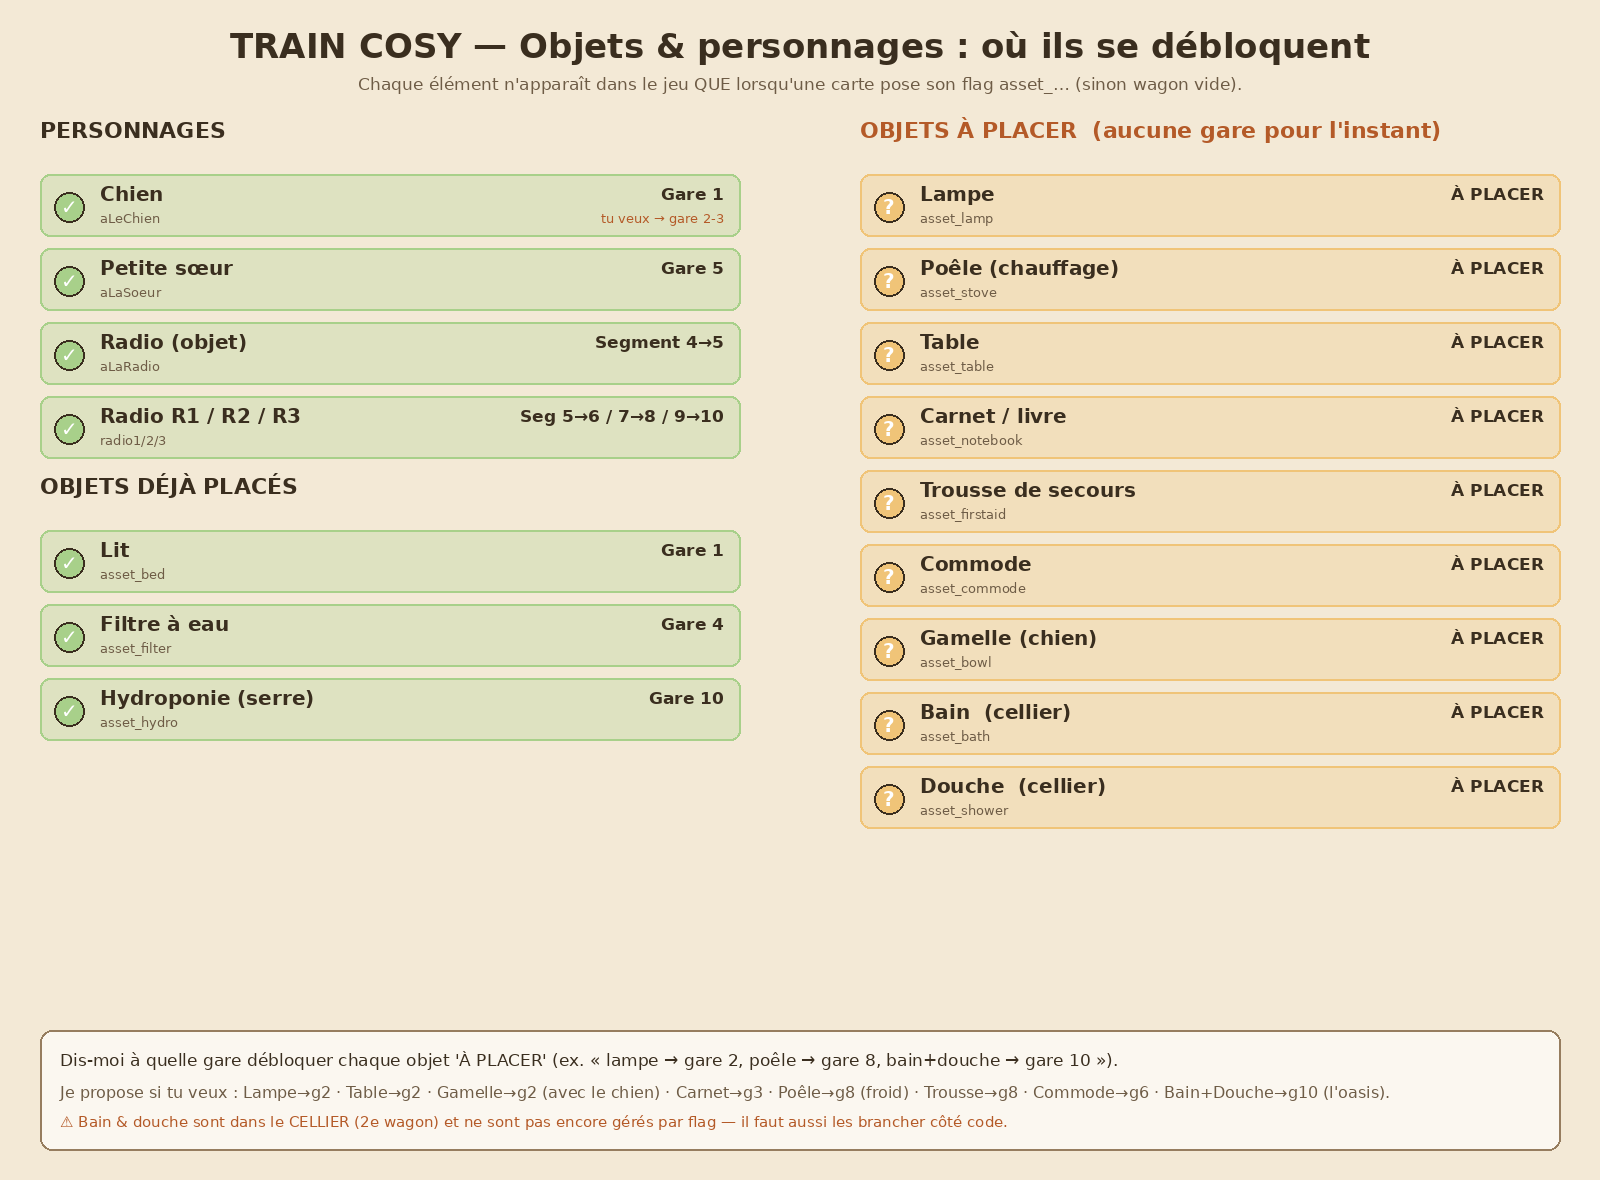
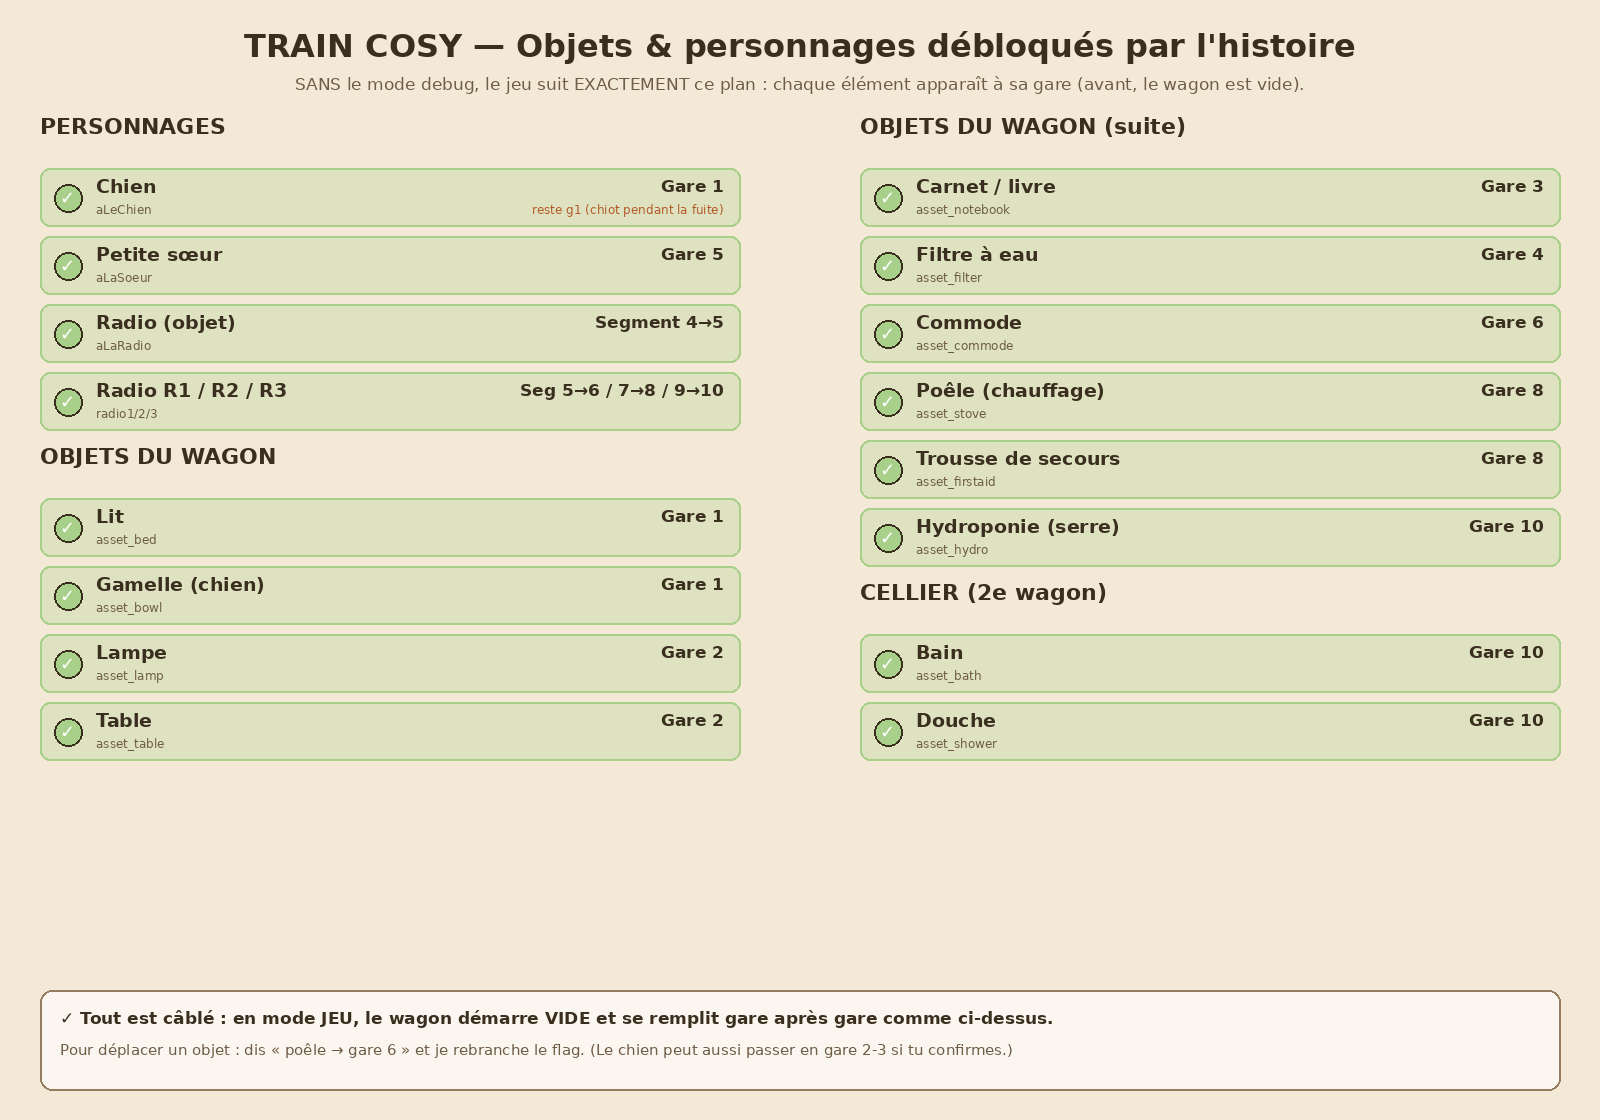
Placement de TOUS les objets dans l'histoire (jeu sans debug = suit le plan)
- asset_lamp/table (g2), notebook (g3), commode (g6), stove/firstaid (g8),
  bowl (g1 avec chien), bath/shower (g10 cellier)
- cellier: bain/douche gates sur asset_bath/asset_shower (visibles en debug)
- visuels regeneres (board + fiche objets)

Changed region(s): [[0.1562, 0.0312, 1.0, 0.7188], [0.0312, 0.0938, 0.4688, 0.6875], [0.0312, 0.875, 0.9688, 1.0]]

diff --git a/lib/widgets/side_scroll_scene.dart b/lib/widgets/side_scroll_scene.dart
@@ -1808,27 +1808,31 @@ class _SideScrollSceneState extends State<SideScrollScene>
         children: [
           // Shen sous la douche (derrière pommeau + panneau).
           if (_showering) _buildShowerHeroine(w, h),
-          _w2Drag(
-            w: w, h: h, cx: gs.showerHeadX, topY: gs.showerHeadY,
-            heightFrac: gs.showerHeadH, aspect: 229 / 672, label: 'pommeau',
-            child: pommeau,
-            onMove: (dx, dy) {
-              gs.showerHeadX = (gs.showerHeadX + dx).clamp(0.02, 0.98);
-              gs.showerHeadY = (gs.showerHeadY + dy).clamp(0.0, 0.85);
-            },
-            onResize: (nh) => gs.showerHeadH = nh,
-          ),
-          _w2Drag(
-            w: w, h: h, cx: gs.showerPanelX, topY: gs.showerPanelY,
-            heightFrac: gs.showerPanelH, aspect: 720 / 768, label: 'panneau',
-            child: Image.asset('assets/objects/shower_panel.png',
-                fit: BoxFit.contain, gaplessPlayback: true),
-            onMove: (dx, dy) {
-              gs.showerPanelX = (gs.showerPanelX + dx).clamp(0.02, 0.98);
-              gs.showerPanelY = (gs.showerPanelY + dy).clamp(0.0, 0.85);
-            },
-            onResize: (nh) => gs.showerPanelH = nh,
-          ),
+          // Douche (pommeau + panneau) : débloquée par l'histoire (asset_shower)
+          // ou en mode debug (_showAllProps).
+          if (_propUnlocked('shower'))
+            _w2Drag(
+              w: w, h: h, cx: gs.showerHeadX, topY: gs.showerHeadY,
+              heightFrac: gs.showerHeadH, aspect: 229 / 672, label: 'pommeau',
+              child: pommeau,
+              onMove: (dx, dy) {
+                gs.showerHeadX = (gs.showerHeadX + dx).clamp(0.02, 0.98);
+                gs.showerHeadY = (gs.showerHeadY + dy).clamp(0.0, 0.85);
+              },
+              onResize: (nh) => gs.showerHeadH = nh,
+            ),
+          if (_propUnlocked('shower'))
+            _w2Drag(
+              w: w, h: h, cx: gs.showerPanelX, topY: gs.showerPanelY,
+              heightFrac: gs.showerPanelH, aspect: 720 / 768, label: 'panneau',
+              child: Image.asset('assets/objects/shower_panel.png',
+                  fit: BoxFit.contain, gaplessPlayback: true),
+              onMove: (dx, dy) {
+                gs.showerPanelX = (gs.showerPanelX + dx).clamp(0.02, 0.98);
+                gs.showerPanelY = (gs.showerPanelY + dy).clamp(0.0, 0.85);
+              },
+              onResize: (nh) => gs.showerPanelH = nh,
+            ),
           // Vapeur de douche : devant le panneau, autour d'elle (ambiance +
           // léger voile). Seulement pendant la douche.
           if (_showering)
@@ -1838,7 +1842,8 @@ class _SideScrollSceneState extends State<SideScrollScene>
                 boxWFrac: 0.34,
                 boxHFrac: 0.58,
                 intensity: 1.3),
-          if (!_bathing)
+          // Baignoire : débloquée par l'histoire (asset_bath) ou en debug.
+          if (_propUnlocked('bath') && !_bathing)
             _w2Drag(
               w: w, h: h, cx: gs.bathX, topY: gs.bathY,
               heightFrac: gs.bathH, aspect: 1376 / 768, label: 'baignoire',

diff --git a/lib/data/cards_data.dart b/lib/data/cards_data.dart
@@ -108,8 +108,8 @@ List<StoryCard> _gare1(Set<String> f) => [
         text:
             "Le train n'a pas encore pris sa vitesse. Sous un banc renversé du wagon, deux yeux brillent : un chiot tremblant, oublié là, seul comme toi.",
         left: _c("Le recueillir",
-            fx: {Stat.moral: 15}, flags: ['aLeChien'],
-            result: "Il se glisse contre ta jambe et s'endort aussitôt. Le wagon paraît moins vide. Tu n'es plus tout à fait seule."),
+            fx: {Stat.moral: 15}, flags: ['aLeChien', 'asset_bowl'],
+            result: "Il se glisse contre ta jambe et s'endort aussitôt. Le wagon paraît moins vide. Tu n'es plus tout à fait seule. Tu lui bricoles une gamelle."),
         right: _c("Tu ne pourras pas le nourrir",
             fx: {Stat.moral: -5},
             result: "Tu détournes les yeux. Une bouche de plus, c'est non. Le silence, après, est immense."),
@@ -138,10 +138,12 @@ List<StoryCard> _gare2(Set<String> f) => [
             "Au dépôt de fret, le foyer de la loco agonise. Tu ne sais pas la nourrir — trop de bois l'étouffe, trop peu l'éteint. Un manuel graisseux traîne dans la cabine.",
         left: _c("Déchiffrer le manuel, page à page",
             fx: {Stat.bois: 18, Stat.faim: -4},
-            result: "Des heures penchée sur les schémas, l'estomac vide. Mais le feu reprend, franc et vif. Tu sauras faire, maintenant."),
+            flags: ['asset_lamp', 'asset_table'],
+            result: "Des heures penchée sur les schémas, l'estomac vide. Mais le feu reprend, franc et vif. Tu sauras faire, maintenant. Tu récupères au dépôt une lampe et une petite table."),
         right: _c("Y aller à l'instinct",
             fx: {Stat.bois: 6, Stat.moral: -3},
-            result: "Tu charges au jugé. Le feu crachote, capricieux. Tu apprendras dans la fumée et les jurons."),
+            flags: ['asset_lamp', 'asset_table'],
+            result: "Tu charges au jugé. Le feu crachote, capricieux. Tu apprendras dans la fumée et les jurons. Tu emportes quand même une lampe et une table trouvées au dépôt."),
       ),
       ..._combat(f, 'G2', 'Dépôt de fret',
           winText:
@@ -171,10 +173,12 @@ List<StoryCard> _gare3(Set<String> f) => [
             "Halte 47, noyée dans un brouillard épais. Des formes bougent entre les wagons rouillés — des pillards, qui fouillent les morts. Ils n'ont pas encore vu ta loco.",
         left: _c("Couper les feux, passer en fantôme",
             fx: {Stat.bois: -6, Stat.moral: -4},
-            result: "Tu éteins tout et tu pousses doucement dans la brume, le cœur au bord des lèvres. Ils ne te verront pas — mais rouler si lentement fait fondre le bois."),
+            flags: ['asset_notebook'],
+            result: "Tu éteins tout et tu pousses doucement dans la brume, le cœur au bord des lèvres. Ils ne te verront pas — mais rouler si lentement fait fondre le bois. Dans le silence, tu trouves un carnet abandonné et un crayon."),
         right: _c("Accélérer pour les semer",
             fx: {Stat.bois: -10, Stat.moral: 3},
-            result: "Tu ouvres les gaz. Un cri, des pas qui courent, une pierre contre la tôle — puis le brouillard les avale. Passé."),
+            flags: ['asset_notebook'],
+            result: "Tu ouvres les gaz. Un cri, des pas qui courent, une pierre contre la tôle — puis le brouillard les avale. Passé. Sur la banquette, un carnet oublié par un ancien passager."),
       ),
       StoryCard(
         id: 'G3b',
@@ -287,9 +291,11 @@ List<StoryCard> _gare6(Set<String> f) => [
         text:
             "Un camp de survivants. On peut troquer, mais ils regardent ta sœur avec trop d'intérêt — ici, un enfant en bonne santé, ça se monnaie.",
         left: _c("Troquer vite et partir",
-            fx: {Stat.faim: 12, Stat.soif: 8, Stat.moral: -6}, result: "Tu obtiens des vivres mais tu sens leurs regards. Tu repars avant la nuit, elle serrée contre toi."),
+            fx: {Stat.faim: 12, Stat.soif: 8, Stat.moral: -6}, flags: ['asset_commode'],
+            result: "Tu obtiens des vivres mais tu sens leurs regards. Tu repars avant la nuit, elle serrée contre toi — avec une vieille commode troquée pour ranger vos affaires."),
         right: _c("Ne pas t'attarder une seconde",
-            fx: {Stat.moral: 6, Stat.faim: -5}, result: "Tu refuses tout contact. Le ventre vide, mais ta sœur en sécurité. C'est tout ce qui compte."),
+            fx: {Stat.moral: 6, Stat.faim: -5}, flags: ['asset_commode'],
+            result: "Tu refuses tout contact. Le ventre vide, mais ta sœur en sécurité. Tu emportes juste une commode laissée sur le quai."),
       ),
       ..._combat(f, 'G6', 'Camp-refuge',
           winText:
@@ -349,9 +355,9 @@ List<StoryCard> _gare8(Set<String> f) => [
         text:
             "Le froid mord pour de bon. Ta sœur grelotte, ses lèvres bleuissent. Elle n'a pas de vrai manteau.",
         left: _c("Lui donner le tien",
-            fx: {Stat.moral: 14, Stat.soif: -6}, flags: ['soeurProtegee'], result: "Tu grelottes à sa place. Elle s'endort contre toi, au chaud. Tu ne regrettes rien."),
+            fx: {Stat.moral: 14, Stat.soif: -6}, flags: ['soeurProtegee', 'asset_stove', 'asset_firstaid'], result: "Tu grelottes à sa place. Elle s'endort contre toi, au chaud. Tu ne regrettes rien. À l'entrée de la zone froide, tu as installé un vrai poêle et trouvé une trousse de secours."),
         right: _c("Pousser le feu à fond",
-            fx: {Stat.bois: -16, Stat.moral: 6}, result: "Tu sacrifies ta réserve de bois pour la réchauffer. Le wagon est un four, pour l'instant."),
+            fx: {Stat.bois: -16, Stat.moral: 6}, flags: ['asset_stove', 'asset_firstaid'], result: "Tu sacrifies ta réserve de bois pour la réchauffer. Le wagon est un four, pour l'instant. Tu finis par installer un vrai poêle et dénicher une trousse de secours."),
       ),
       ..._combat(f, 'G8', 'Entrée zone froide',
           winText:
@@ -412,12 +418,12 @@ List<StoryCard> _gare10(Set<String> f) => [
             "Une serre intacte, chaude, verdoyante. Ta sœur court entre les plants en riant. Un répit irréel. On pourrait... rester ici ?",
         left: _c("S'accorder un vrai repos",
             fx: {Stat.faim: 20, Stat.soif: 16, Stat.moral: 18},
-            flags: ['asset_hydro'],
-            result: "Quelques jours de chaleur et de rires. Vous reprenez des forces et de l'âme. Avant de partir, vous démontez de quoi monter une petite tour hydroponique dans le wagon. Puis le nord rappelle."),
+            flags: ['asset_hydro', 'asset_bath', 'asset_shower'],
+            result: "Quelques jours de chaleur et de rires. Vous reprenez des forces et de l'âme. Avant de partir, vous démontez de quoi monter une tour hydroponique, une baignoire et un coin douche dans le cellier. Puis le nord rappelle."),
         right: _c("Faire le plein et repartir vite",
             fx: {Stat.faim: 12, Stat.soif: 10, Stat.bois: 12, Stat.moral: -4},
-            flags: ['asset_hydro'],
-            result: "« Papa et maman attendent. » Elle comprend. Vous emportez des plants et le matériel hydroponique, et repartez le ventre plein, le cœur lourd."),
+            flags: ['asset_hydro', 'asset_bath', 'asset_shower'],
+            result: "« Papa et maman attendent. » Elle comprend. Vous emportez des plants, le matériel hydroponique et de quoi installer un bain et une douche dans le cellier, et repartez le ventre plein, le cœur lourd."),
       ),
       ..._combat(f, 'G10', 'Oasis perdue',
           winText:

diff --git a/lib/widgets/loading_screen.dart b/lib/widgets/loading_screen.dart
@@ -202,7 +202,7 @@ class _LoadingScreenState extends State<LoadingScreen> {
             const SizedBox(height: 8),
             // Numéro de build (pour vérifier qu'on teste la bonne version).
             const Text(
-              'build 0.97.0',
+              'build 0.98.0',
               style: TextStyle(color: Color(0xFF6B5E4E), fontSize: 11),
             ),
           ],

diff --git a/tools/story_viz/objets.py b/tools/story_viz/objets.py
@@ -4,61 +4,52 @@ from PIL import Image, ImageDraw, ImageFont
 FP="/usr/share/fonts/truetype/dejavu/DejaVuSans.ttf"
 FPB="/usr/share/fonts/truetype/dejavu/DejaVuSans-Bold.ttf"
 def Fn(s,b=False): return ImageFont.truetype(FPB if b else FP,s)
-W,H=1600,1180
+W,H=1600,1120
 img=Image.new("RGB",(W,H),(243,233,214)); d=ImageDraw.Draw(img,"RGBA")
 INK=(58,46,31); INK2=(110,92,70)
 def ct(x,y,s,f,fill,a="lm"): d.text((x,y),s,font=f,fill=fill,anchor=a)
 
-ct(W//2,46,"TRAIN COSY — Objets & personnages : où ils se débloquent",Fn(34,True),INK,"mm")
-ct(W//2,84,"Chaque élément n'apparaît dans le jeu QUE lorsqu'une carte pose son flag asset_… (sinon wagon vide).",Fn(17),INK2,"mm")
+ct(W//2,46,"TRAIN COSY — Objets & personnages débloqués par l'histoire",Fn(32,True),INK,"mm")
+ct(W//2,84,"SANS le mode debug, le jeu suit EXACTEMENT ce plan : chaque élément apparaît à sa gare (avant, le wagon est vide).",Fn(17),INK2,"mm")
 
-def row(x,y,name,where,key,placed,note=""):
-    col=(168,208,138) if placed else (240,196,120)
-    d.rounded_rectangle([x,y,x+700,y+62],radius=10,fill=col+(70,),outline=col,width=2)
-    # pastille statut
-    d.ellipse([x+14,y+18,x+44,y+48],fill=col,outline=INK,width=2)
-    ct(x+29,y+33,"✓" if placed else "?",Fn(20,True),(255,255,255),"mm")
-    ct(x+60,y+20,name,Fn(20,True),INK,"lm")
-    ct(x+60,y+44,key,Fn(13),INK2,"lm")
-    ct(x+700-16,y+20,where,Fn(17,True),INK,"rm")
-    if note: ct(x+700-16,y+44,note,Fn(13),(180,90,40),"rm")
+def row(x,y,name,where,key,note=""):
+    col=(168,208,138)
+    d.rounded_rectangle([x,y,x+700,y+58],radius=10,fill=col+(70,),outline=col,width=2)
+    d.ellipse([x+14,y+16,x+42,y+44],fill=col,outline=INK,width=2)
+    ct(x+28,y+30,"✓",Fn(18,True),(255,255,255),"mm")
+    ct(x+56,y+18,name,Fn(19,True),INK,"lm")
+    ct(x+56,y+41,key,Fn(12),INK2,"lm")
+    ct(x+700-16,y+18,where,Fn(17,True),INK,"rm")
+    if note: ct(x+700-16,y+41,note,Fn(12),(180,90,40),"rm")
 
-# ---- Colonne gauche : PERSOS + PLACÉS ----
-LX=40; y=130
-ct(LX,y,"PERSONNAGES",Fn(22,True),INK,"lm"); y+=44
-row(LX,y,"Chien","Gare 1","aLeChien",True,"tu veux → gare 2-3"); y+=74
-row(LX,y,"Petite sœur","Gare 5","aLaSoeur",True); y+=74
-row(LX,y,"Radio (objet)","Segment 4→5","aLaRadio",True); y+=74
-row(LX,y,"Radio R1 / R2 / R3","Seg 5→6 / 7→8 / 9→10","radio1/2/3",True); y+=90
+LX=40; y=126
+ct(LX,y,"PERSONNAGES",Fn(22,True),INK,"lm"); y+=42
+row(LX,y,"Chien","Gare 1","aLeChien","reste g1 (chiot pendant la fuite)"); y+=68
+row(LX,y,"Petite sœur","Gare 5","aLaSoeur"); y+=68
+row(LX,y,"Radio (objet)","Segment 4→5","aLaRadio"); y+=68
+row(LX,y,"Radio R1 / R2 / R3","Seg 5→6 / 7→8 / 9→10","radio1/2/3"); y+=84
+ct(LX,y,"OBJETS DU WAGON",Fn(22,True),INK,"lm"); y+=42
+row(LX,y,"Lit","Gare 1","asset_bed"); y+=68
+row(LX,y,"Gamelle (chien)","Gare 1","asset_bowl"); y+=68
+row(LX,y,"Lampe","Gare 2","asset_lamp"); y+=68
+row(LX,y,"Table","Gare 2","asset_table"); y+=68
 
-ct(LX,y,"OBJETS DÉJÀ PLACÉS",Fn(22,True),INK,"lm"); y+=44
-row(LX,y,"Lit","Gare 1","asset_bed",True); y+=74
-row(LX,y,"Filtre à eau","Gare 4","asset_filter",True); y+=74
-row(LX,y,"Hydroponie (serre)","Gare 10","asset_hydro",True); y+=74
+RX=860; y=126
+ct(RX,y,"OBJETS DU WAGON (suite)",Fn(22,True),INK,"lm"); y+=42
+row(RX,y,"Carnet / livre","Gare 3","asset_notebook"); y+=68
+row(RX,y,"Filtre à eau","Gare 4","asset_filter"); y+=68
+row(RX,y,"Commode","Gare 6","asset_commode"); y+=68
+row(RX,y,"Poêle (chauffage)","Gare 8","asset_stove"); y+=68
+row(RX,y,"Trousse de secours","Gare 8","asset_firstaid"); y+=68
+row(RX,y,"Hydroponie (serre)","Gare 10","asset_hydro"); y+=84
+ct(RX,y,"CELLIER (2e wagon)",Fn(22,True),INK,"lm"); y+=42
+row(RX,y,"Bain","Gare 10","asset_bath"); y+=68
+row(RX,y,"Douche","Gare 10","asset_shower"); y+=68
 
-# ---- Colonne droite : À PLACER ----
-RX=860; y=130
-ct(RX,y,"OBJETS À PLACER  (aucune gare pour l'instant)",Fn(22,True),(180,90,40),"lm"); y+=44
-toplace=[
- ("Lampe","asset_lamp"),
- ("Poêle (chauffage)","asset_stove"),
- ("Table","asset_table"),
- ("Carnet / livre","asset_notebook"),
- ("Trousse de secours","asset_firstaid"),
- ("Commode","asset_commode"),
- ("Gamelle (chien)","asset_bowl"),
- ("Bain  (cellier)","asset_bath"),
- ("Douche  (cellier)","asset_shower"),
-]
-for name,key in toplace:
-    row(RX,y,name,"À PLACER",key,False); y+=74
-
-# ---- bas : note ----
-ny=H-150
+ny=H-130
 d.rounded_rectangle([40,ny,W-40,H-30],radius=12,fill=(255,255,255,160),outline=(150,125,95),width=2)
-ct(60,ny+30,"Dis-moi à quelle gare débloquer chaque objet 'À PLACER' (ex. « lampe → gare 2, poêle → gare 8, bain+douche → gare 10 »).",Fn(17),INK,"lm")
-ct(60,ny+62,"Je propose si tu veux : Lampe→g2 · Table→g2 · Gamelle→g2 (avec le chien) · Carnet→g3 · Poêle→g8 (froid) · Trousse→g8 · Commode→g6 · Bain+Douche→g10 (l'oasis).",Fn(16),INK2,"lm")
-ct(60,ny+92,"⚠️ Bain & douche sont dans le CELLIER (2e wagon) et ne sont pas encore gérés par flag — il faut aussi les brancher côté code.",Fn(15),(180,90,40),"lm")
+ct(60,ny+28,"✓ Tout est câblé : en mode JEU, le wagon démarre VIDE et se remplit gare après gare comme ci-dessus.",Fn(17,True),INK,"lm")
+ct(60,ny+60,"Pour déplacer un objet : dis « poêle → gare 6 » et je rebranche le flag. (Le chien peut aussi passer en gare 2-3 si tu confirmes.)",Fn(15),INK2,"lm")
 
 img.save("/home/user/survival/docs/objets_placement.png")
 print("OK",img.size)

diff --git a/tools/story_viz/board.py b/tools/story_viz/board.py
@@ -19,12 +19,12 @@ def zonename(g):
 
 GARES={
 1:[("G1","Ville en flammes","Regarder","M-6","Fermer la porte","M+3","gain"),
-   ("G1b","Chiot sous un banc","Le recueillir","M+15 +CHIEN","Refuser","M-5","gain"),
+   ("G1b","Chiot sous un banc","Le recueillir","M+15 +CHIEN +GAMELLE","Refuser","M-5","gain"),
    ("G1c","Séparation (souvenir)","Jurer de les retrouver","M+10","Se préparer au pire","M-8 F+4",None)],
-2:[("G2","Nourrir la loco","Déchiffrer le manuel","B+18 F-4","À l'instinct","B+6 M-3",None),
+2:[("G2","Nourrir la loco","Déchiffrer le manuel","B+18 F-4 +LAMPE +TABLE","À l'instinct","B+6 M-3 +LAMPE +TABLE",None),
    ("G2win","COMBAT BON : dépôt sécurisé","Plein de bois","B+12","Chercher vivres","F+8 S+5","bon"),
    ("G2lose","COMBAT RATÉ : réserve pillée","Sauver le reste","B-6","Repartir furieuse","M-4 F-3","rate")],
-3:[("G3","Pillards/brouillard","Passer en fantôme","B-6 M-4","Accélérer","B-10 M+3",None),
+3:[("G3","Pillards/brouillard","Passer en fantôme","B-6 M-4 +CARNET","Accélérer","B-10 M+3 +CARNET",None),
    ("G3b","Foulard d'enfant","Risquer pour l'attraper","F-8 M+12 +indice","Ne pas risquer","M-8",None),
    ("G3win","COMBAT BON : wagon intact","Souffler","M+8","Fouiller butin","F+6 B+4","bon"),
    ("G3lose","COMBAT RATÉ : wagon abîmé","Colmater","B-6 M-3","Repartir","F-5","rate")],
@@ -35,19 +35,19 @@ GARES={
    ("G5b","Parents au nord","Lui promettre","M+12 +cap","Rester prudente","M+4 +cap",None),
    ("G5win","COMBAT BON : sœur indemne","La serrer encore","M+10","Filer vite","B+4 M+5","bon"),
    ("G5lose","COMBAT RATÉ : elle a vu","La consoler","M-3 F-4 +SOIN","L'endurcir","M+4","rate")],
-6:[("G6","Camp louche","Troquer et partir","F+12 S+8 M-6","Ne pas s'attarder","M+6 F-5",None),
+6:[("G6","Camp louche","Troquer et partir","F+12 S+8 M-6 +COMMODE","Ne pas s'attarder","M+6 F-5 +COMMODE",None),
    ("G6win","COMBAT BON : respect du camp","Négocier d'égal","F+10 S+6 M+4","Garde payée","F+12 B+4","bon"),
    ("G6lose","COMBAT RATÉ : prix durcis","Payer fort","F-8 M-4","Partir sans rien","M-5","rate")],
 7:[("G7","Souvenir d'enfance","Raconter","M+16 B-5","Garder le cap","M+4",None),
    ("G7win","COMBAT BON : halte sûre","Moment à la sœur","M+12","Fouiller la halte","F+6 B+4","bon"),
    ("G7lose","COMBAT RATÉ : charme rompu","Rassurer","M-3","Repartir aussitôt","B-5","rate")],
-8:[("G8","La sœur grelotte","Donner ton manteau","M+14 S-6 +SOIN","Pousser le feu","B-16 M+6",None),
+8:[("G8","La sœur grelotte","Donner ton manteau","M+14 S-6 +SOIN +POÊLE +TROUSSE","Pousser le feu","B-16 M+6 +POÊLE +TROUSSE",None),
    ("G8win","COMBAT BON : wagon hermétique","Calfeutrer","B+6 M+4","Veiller la sœur","M+8 +SOIN","bon"),
    ("G8lose","COMBAT RATÉ : porte cédée","Tout brûler","B-10 +SOIN","Serrer les dents","S-6 M-4","rate")],
 9:[("G9","Sœur fiévreuse","La veiller","F-10 M+12 +SOIN","Braver la tempête","S-12 M+8 +SOIN",None),
    ("G9win","COMBAT BON : sœur reposée","Soigner sans relâche","M+10 +SOIN","Récup. matériel","F+8 B+6","bon"),
    ("G9lose","COMBAT RATÉ : fièvre remonte","Tout donner","F-10 M+6 +SOIN","Foncer à l'abri","B-8 M-4","rate")],
-10:[("G10","Serre cosy","Vrai repos","F+20 S+16 M+18","Plein, repartir","F+12 S+10 B+12","gain"),
+10:[("G10","Serre cosy","Vrai repos","F+20 S+16 M+18 +BAIN +DOUCHE","Plein, repartir","F+12 S+10 B+12 +BAIN +DOUCHE","gain"),
    ("G10win","COMBAT BON : serre défendue","Récolte massive","F+14 S+10","Profiter","M+12","bon"),
    ("G10lose","COMBAT RATÉ : serre saccagée","Sauver plants","F+6 M-3","Repartir dégoûtée","M-5","rate")],
 11:[("G11","Barrage pillards","Foncer","B-18 M-6","Négocier","F-16 S-10 M+4",None),
@@ -130,7 +130,7 @@ ct(x+10,cy2,"si X",Fn(13),(255,255,255),"lm"); x+=64
 ct(x,cy2,"= carte conditionnelle  ·  (indice / cap / SOIN = petits flags, non mis en évidence)",Fn(15),INK,"lm")
 
 # Les GROS gains à mettre en évidence (objets + persos + radio)
-BIGTOK=['CHIEN','SŒUR','LIT','FILTRE','HYDRO','RADIO','R1','R2','R3']
+BIGTOK=['CHIEN','SŒUR','LIT','FILTRE','HYDRO','RADIO','R1','R2','R3','GAMELLE','LAMPE','TABLE','CARNET','COMMODE','POÊLE','TROUSSE','BAIN','DOUCHE']
 def big_of(lfx,rfx):
     blob=" "+lfx+" "+rfx+" "
     return [t for t in BIGTOK if (" +"+t+" ") in blob or ("+"+t) in blob]